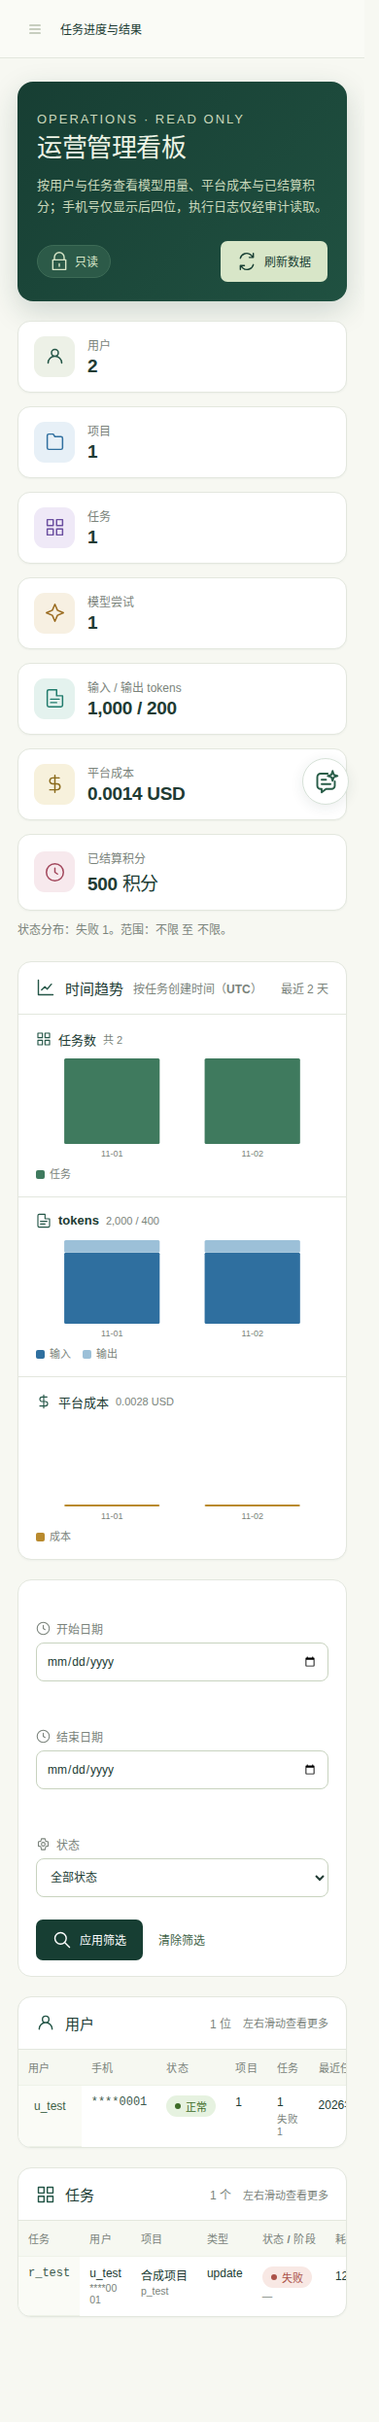
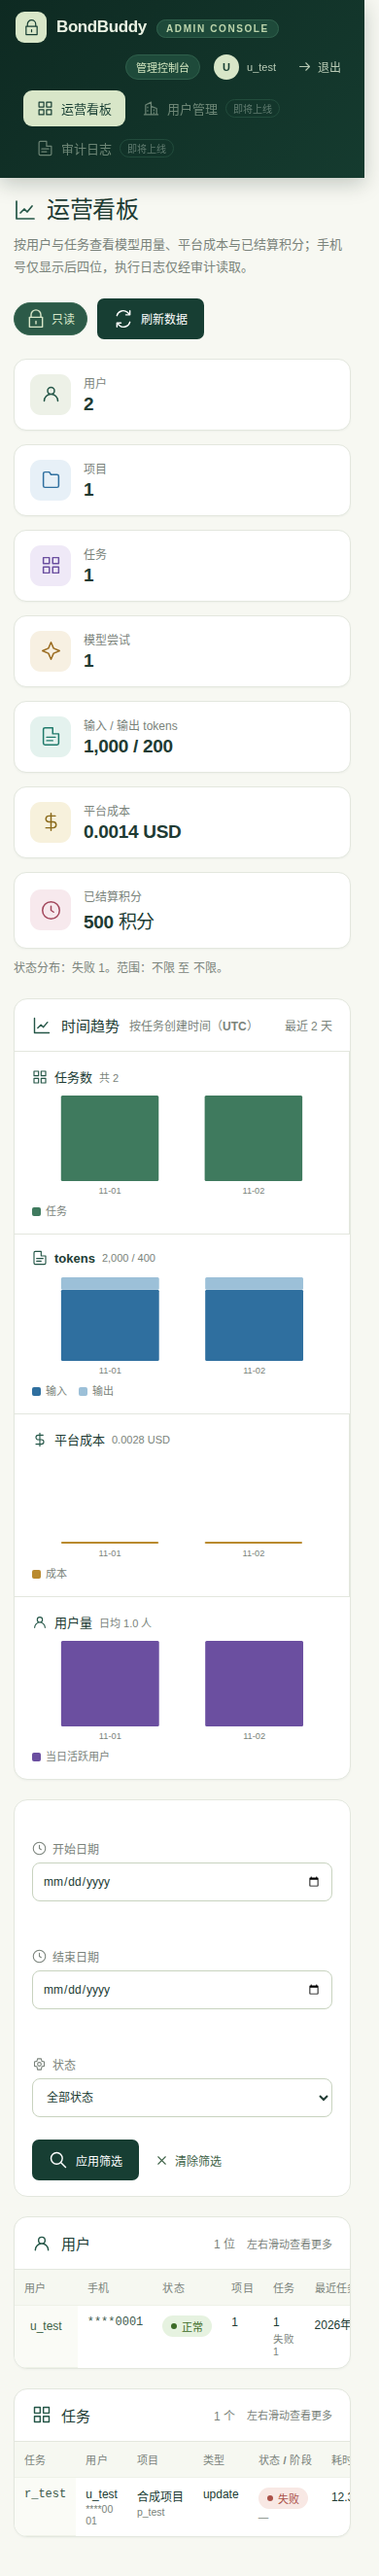
feat(#448): standalone admin console for the operator dashboard with daily active users

diff --git a/apps/web/src/admin-dashboard-page.ts b/apps/web/src/admin-dashboard-page.ts
@@ -47,7 +47,9 @@ const ICONS = {
   close: prototypeIcon('close'),
   lock: prototypeIcon('lock'),
   empty: prototypeIcon('folder'),
-  chart: icon('M3 3v18h18M7 15l4-4 3 3 5-6')
+  chart: icon('M3 3v18h18M7 15l4-4 3 3 5-6'),
+  link: prototypeIcon('link'),
+  more: prototypeIcon('down')
 };
 const STATE_TONE: Record<string, string> = {
   succeeded: 'success', test_completed: 'success', failed: 'danger', rejected: 'danger',
@@ -149,6 +151,8 @@ export function dashboardTrendHtml(overview: AdminDashboardOverview): string {
   const costText = priced.length ? dashboardCost(costTotal.toFixed(10), currency) : '—';
   const short = (value: string) => (value.length >= 10 ? value.slice(5) : value);
   const tasks = barSvg(daily.map(d => ({ value: d.tasks, label: short(d.date), text: `${d.date} 任务 ${d.tasks}` })), 'admin-dashboard-bar');
+  const users = barSvg(daily.map(d => ({ value: d.active_users, label: short(d.date), text: `${d.date} 活跃用户 ${d.active_users}` })), 'admin-dashboard-bar users');
+  const avgUsers = (daily.reduce((sum, d) => sum + d.active_users, 0) / daily.length).toFixed(1);
   const tokens = tokenSvg(daily.map(d => ({ in: d.input_tokens, out: d.output_tokens, label: short(d.date), text: `${d.date} ${d.input_tokens + d.output_tokens}` })));
   const costs = barSvg(daily.map(d => ({ value: d.cost_amount === null ? 0 : Number(d.cost_amount), label: short(d.date), text: `${d.date} 成本 ${d.cost_amount === null ? '未定价' : dashboardCost(d.cost_amount, d.currency)}` })), 'admin-dashboard-bar cost');
   return `<section class="admin-dashboard-panel admin-dashboard-trend" aria-label="时间趋势">
@@ -157,6 +161,7 @@ export function dashboardTrendHtml(overview: AdminDashboardOverview): string {
       <div class="admin-dashboard-chart"><h3>${ICONS.tasks}任务数 <small>共 ${number(tasksTotal)}</small></h3>${tasks}<div class="admin-dashboard-legend"><span><i style="background:#3f7a5e"></i>任务</span></div></div>
       <div class="admin-dashboard-chart"><h3>${ICONS.tokens}tokens <small>${number(inputTotal)} / ${number(outputTotal)}</small></h3>${tokens}<div class="admin-dashboard-legend"><span><i style="background:#2f6f9f"></i>输入</span><span><i style="background:#9cc0d8"></i>输出</span></div></div>
       <div class="admin-dashboard-chart"><h3>${ICONS.cost}平台成本 <small>${esc(costText)}</small></h3>${costs}<div class="admin-dashboard-legend"><span><i style="background:#b98a2e"></i>成本</span></div></div>
+      <div class="admin-dashboard-chart"><h3>${ICONS.users}用户量 <small>日均 ${avgUsers} 人</small></h3>${users}<div class="admin-dashboard-legend"><span><i style="background:#6b4fa0"></i>当日活跃用户</span></div></div>
     </div>
   </section>`;
 }
@@ -209,7 +214,7 @@ export function dashboardExecLogHtml(log: AdminExecLog | null, error: string): s
   if (!log) return '';
   return `<section class="admin-dashboard-exec-log" aria-label="执行日志" data-dashboard-exec-log-panel>
     <header><h2>${ICONS.log}执行日志 ${esc(log.attempt_id)}</h2>
-      <div class="admin-dashboard-exec-meta"><span>${number(log.byte_size)} 字节${log.truncated ? '（超出上限，已截断）' : ''}</span><span class="admin-dashboard-mono">sha256 ${esc(log.sha256)}</span></div>
+      <div class="admin-dashboard-exec-meta"><span>${ICONS.log}${number(log.byte_size)} 字节${log.truncated ? '（超出上限，已截断）' : ''}</span><span class="admin-dashboard-mono">${ICONS.link}sha256 ${esc(log.sha256)}</span></div>
       <div class="admin-dashboard-exec-actions"><button type="button" class="admin-dashboard-link" data-dashboard-exec-log-download>${ICONS.download}下载 .log</button>
       <button type="button" class="admin-dashboard-link" data-dashboard-exec-log-close>${ICONS.close}关闭</button></div></header>
     <pre data-dashboard-exec-log-body>${esc(log.body)}</pre>
@@ -232,7 +237,7 @@ function filtersHtml(filters: DashboardFilters): string {
       <label class="admin-dashboard-field"><span>${ICONS.clock}结束日期</span><input type="date" data-dashboard-to value="${esc(filters.to)}"></label>
       <label class="admin-dashboard-field"><span>${ICONS.settings}状态</span><select data-dashboard-state><option value="">全部状态</option>${options}</select></label>
       <div class="admin-dashboard-filter-actions"><button type="submit" class="btn primary" data-dashboard-apply>${ICONS.search}应用筛选</button>
-      <button type="button" class="admin-dashboard-link" data-dashboard-reset>清除筛选</button></div>
+      <button type="button" class="admin-dashboard-link" data-dashboard-reset>${ICONS.close}清除筛选</button></div>
     </div>
   </form>${filters.userId ? `<p class="admin-dashboard-user-filter" role="status">仅显示用户 ${esc(filters.userId)} 的任务 <button type="button" class="admin-dashboard-link" data-dashboard-clear-user>${ICONS.close}清除用户筛选</button></p>` : ''}`;
 }
@@ -345,12 +350,12 @@ export class AdminDashboardPage {
     if (!this.live()) return;
     if (this.forbidden) { this.shell(dashboardForbiddenHtml(), 'projects'); return; }
     this.shell(`<section class="admin-dashboard">
-      <header class="admin-dashboard-hero">
-        <div><p class="admin-dashboard-eyebrow">OPERATIONS · READ ONLY</p><h1>运营管理看板</h1>
+      <div class="admin-dashboard-page-title">
+        <div><h1>${ICONS.chart}运营看板</h1>
         <p>按用户与任务查看模型用量、平台成本与已结算积分；手机号仅显示后四位，执行日志仅经审计读取。</p></div>
-        <div class="admin-dashboard-hero-actions"><span class="admin-dashboard-pill">${ICONS.lock}只读</span>
+        <div class="admin-dashboard-page-actions"><span class="admin-dashboard-pill">${ICONS.lock}只读</span>
         <button type="button" class="btn primary" data-dashboard-refresh ${this.loading ? 'disabled' : ''}>${ICONS.refresh}刷新数据</button></div>
-      </header>
+      </div>
       ${this.error ? `<p class="admin-dashboard-alert" role="alert">${esc(this.error)}</p>` : ''}
       ${this.overview ? dashboardSummaryHtml(this.overview) : this.loading ? '<p role="status">正在读取运营汇总…</p>' : ''}
       ${this.overview ? dashboardTrendHtml(this.overview) : ''}
@@ -358,12 +363,12 @@ export class AdminDashboardPage {
       <section class="admin-dashboard-panel" aria-label="用户明细">
         <div class="admin-dashboard-panel-head"><div class="admin-dashboard-panel-title">${ICONS.users}用户</div><div class="admin-dashboard-panel-tools"><span class="admin-dashboard-panel-sub">${this.users.length} 位</span><span class="admin-dashboard-scroll-hint">左右滑动查看更多</span></div></div>
         ${this.loading && !this.users.length ? '<p role="status">正在读取用户明细…</p>' : dashboardUsersHtml(this.users, this.filters.userId || null)}
-        ${this.usersCursor ? `<div class="admin-dashboard-more"><button type="button" class="admin-dashboard-link" data-dashboard-more-users ${this.loading ? 'disabled' : ''}>加载更多用户</button></div>` : ''}
+        ${this.usersCursor ? `<div class="admin-dashboard-more"><button type="button" class="admin-dashboard-link" data-dashboard-more-users ${this.loading ? 'disabled' : ''}>${ICONS.more}加载更多用户</button></div>` : ''}
       </section>
       <section class="admin-dashboard-panel" aria-label="任务明细">
         <div class="admin-dashboard-panel-head"><div class="admin-dashboard-panel-title">${ICONS.tasks}任务</div><div class="admin-dashboard-panel-tools"><span class="admin-dashboard-panel-sub">${this.tasks.length} 个</span><span class="admin-dashboard-scroll-hint">左右滑动查看更多</span></div></div>
         ${this.loading && !this.tasks.length ? '<p role="status">正在读取任务明细…</p>' : dashboardTasksHtml(this.tasks)}
-        ${this.tasksCursor ? `<div class="admin-dashboard-more"><button type="button" class="admin-dashboard-link" data-dashboard-more-tasks ${this.loading ? 'disabled' : ''}>加载更多任务</button></div>` : ''}
+        ${this.tasksCursor ? `<div class="admin-dashboard-more"><button type="button" class="admin-dashboard-link" data-dashboard-more-tasks ${this.loading ? 'disabled' : ''}>${ICONS.more}加载更多任务</button></div>` : ''}
       </section>
       ${this.execLogLoading ? '<p role="status">正在读取执行日志…</p>' : ''}
       ${dashboardExecLogHtml(this.execLog, this.execLogError)}

diff --git a/apps/web/src/admin-dashboard.css b/apps/web/src/admin-dashboard.css
@@ -38,7 +38,7 @@
 .admin-dashboard-panel-tools{display:flex;align-items:center;gap:12px}
 .admin-dashboard-scroll-hint{display:none;color:var(--muted);font-size:11px}
 
-.admin-dashboard-charts{display:grid;grid-template-columns:repeat(3,minmax(0,1fr));gap:0}
+.admin-dashboard-charts{display:grid;grid-template-columns:repeat(4,minmax(0,1fr));gap:0}
 .admin-dashboard-chart{padding:16px 18px;border-right:1px solid var(--line);min-width:0}
 .admin-dashboard-chart:last-child{border-right:0}
 .admin-dashboard-chart h3{margin:0 0 4px;font-size:13px;display:flex;align-items:center;gap:7px}
@@ -47,6 +47,7 @@
 .admin-dashboard-chart-svg{width:100%;height:110px;display:block;stroke:none}
 .admin-dashboard-bar{fill:#3f7a5e}
 .admin-dashboard-bar.cost{fill:#b98a2e}
+.admin-dashboard-bar.users{fill:#6b4fa0}
 .admin-dashboard-bar.token-in{fill:#2f6f9f}
 .admin-dashboard-bar.token-out{fill:#9cc0d8}
 .admin-dashboard-axis{fill:var(--muted);font-size:9px}
@@ -92,7 +93,8 @@
 .admin-dashboard-exec-log header h2{display:flex;align-items:center;gap:8px;font-size:13px;color:#e6f0e6}
 .admin-dashboard-exec-log header h2 svg{width:16px;height:16px}
 .admin-dashboard-exec-meta{display:flex;gap:8px;flex-wrap:wrap;color:#9db3a6;font-size:11px}
-.admin-dashboard-exec-meta span{background:#1e2f27;border:1px solid #2c4438;border-radius:999px;padding:3px 9px}
+.admin-dashboard-exec-meta span{background:#1e2f27;border:1px solid #2c4438;border-radius:999px;padding:3px 9px;display:inline-flex;align-items:center;gap:5px}
+.admin-dashboard-exec-meta svg{width:12px;height:12px}
 .admin-dashboard-exec-actions{margin-left:auto;display:flex;gap:8px}
 .admin-dashboard-exec-actions .admin-dashboard-link{color:#cfe0d2}
 .admin-dashboard-exec-actions .admin-dashboard-link:hover{background:#24352e;color:#fff}
@@ -109,6 +111,36 @@
 
 .admin-dashboard-alert{margin:14px 0 0;padding:10px 12px;border-radius:9px;background:#f9ebe6;color:var(--red);font-size:12px}
 
-@media(max-width:1100px){.admin-dashboard-charts{grid-template-columns:1fr}.admin-dashboard-chart{border-right:0;border-bottom:1px solid var(--line)}.admin-dashboard-chart:last-child{border-bottom:0}}
+@media(max-width:1200px){.admin-dashboard-charts{grid-template-columns:repeat(2,minmax(0,1fr))}.admin-dashboard-chart:nth-child(2){border-right:0}.admin-dashboard-chart:nth-child(odd){border-right:1px solid var(--line)}}
+@media(max-width:760px){.admin-dashboard-charts{grid-template-columns:1fr}.admin-dashboard-chart{border-right:0;border-bottom:1px solid var(--line)}.admin-dashboard-chart:last-child{border-bottom:0}}
 @media(max-width:900px){.admin-dashboard-hero{flex-direction:column}.admin-dashboard-hero-actions{width:100%;justify-content:space-between}}
 @media(max-width:600px){.admin-dashboard-hero{padding:20px}.admin-dashboard-summary{grid-template-columns:1fr}.admin-dashboard-scroll-hint{display:inline}.admin-dashboard-exec-actions{margin-left:0}}
+
+
+/* Standalone administrator console shell (only used by #/admin/dashboard). */
+.admin-dashboard-page-title{display:flex;align-items:flex-end;justify-content:space-between;gap:20px;margin-bottom:18px;flex-wrap:wrap}
+.admin-dashboard-page-title h1{display:flex;align-items:center;gap:10px;font-size:24px;letter-spacing:-.5px;margin:0}
+.admin-dashboard-page-title h1 svg{width:24px;height:24px;color:var(--green)}
+.admin-dashboard-page-title p{margin:6px 0 0;color:var(--muted);font-size:13px}
+.admin-dashboard-page-actions{display:flex;gap:10px;align-items:center}
+.admin-app{min-height:100vh;background:var(--paper)}
+.admin-topbar{position:sticky;top:0;z-index:30;min-height:64px;background:linear-gradient(135deg,#0e2a22,#153b2f);color:#e9f1e2;display:flex;align-items:center;gap:24px;padding:0 28px;box-shadow:0 6px 20px rgba(10,30,24,.22)}
+.admin-brand{display:flex;align-items:center;gap:10px;font-weight:700;font-size:17px;letter-spacing:-.4px}
+.admin-mark{width:32px;height:32px;border-radius:9px;background:#d8e6c8;color:#173e33;display:grid;place-items:center}
+.admin-mark svg{width:17px;height:17px}
+.admin-tag{font-size:10px;letter-spacing:1.6px;background:#1e4a3a;border:1px solid #2f5f4b;color:#bcd4ab;border-radius:999px;padding:3px 9px;margin-left:6px}
+.admin-tabs{display:flex;gap:4px;margin-left:8px;flex-wrap:wrap}
+.admin-tab{display:flex;align-items:center;gap:8px;padding:9px 14px;border-radius:9px;color:#b7c9b4;font-size:13px}
+.admin-tab svg{width:17px;height:17px}
+.admin-tab[data-active="true"]{background:#d8e6c8;color:#173e33;font-weight:600}
+.admin-tab.disabled{opacity:.55;cursor:not-allowed}
+.admin-tab small{font-size:10px;border:1px solid #2f5f4b;border-radius:999px;padding:1px 7px;color:#9db3a6}
+.admin-top-right{margin-left:auto;display:flex;align-items:center;gap:14px;font-size:12px;color:#b7c9b4}
+.admin-env{display:inline-flex;align-items:center;gap:6px;background:#1e4a3a;border:1px solid #2f5f4b;color:#cfe3bd;border-radius:999px;padding:4px 10px}
+.admin-operator{display:flex;align-items:center;gap:8px}
+.admin-avatar{width:26px;height:26px;border-radius:50%;background:#d8e6c8;color:#173e33;display:grid;place-items:center;font-size:11px;font-weight:700}
+.admin-text-button{display:inline-flex;align-items:center;gap:6px;border:0;background:none;color:#b7c9b4;font:inherit;font-size:12px;cursor:pointer;padding:6px 8px;border-radius:7px}
+.admin-text-button:hover{background:#1e4a3a;color:#fff}
+.admin-text-button svg{width:15px;height:15px}
+.admin-main{max-width:1480px;margin:0 auto;padding:26px 30px 56px}
+@media(max-width:900px){.admin-topbar{min-height:auto;flex-wrap:wrap;padding:12px 16px;gap:10px}.admin-tabs{order:3;width:100%;overflow-x:auto}.admin-top-right{font-size:11px}.admin-main{padding:16px 14px 40px}}

diff --git a/apps/web/src/main.ts b/apps/web/src/main.ts
@@ -356,6 +356,32 @@ function shell(content: string, section: string) {
   menu.addEventListener('click', () => { const open = document.querySelector('#sidebar')!.classList.toggle('mobile-open'); menu.setAttribute('aria-expanded', String(open)); menu.setAttribute('aria-label', open ? '关闭菜单' : '打开菜单'); });
 }
 
+function adminTab(route: string, ico: string, label: string, active: boolean) {
+  return `<a class="admin-tab" href="#${route}"${active ? ' aria-current="page" data-active="true"' : ''}>${prototypeIcon(ico)}<span>${label}</span></a>`;
+}
+
+/** Standalone administrator console shell: no product sidebar, no product assistant. */
+function adminShell(content: string, _section: string) {
+  const operator = identity || '当前账号';
+  root.innerHTML = `<div class="admin-app">
+    <header class="admin-topbar">
+      <a class="admin-brand" href="#admin/dashboard"><span class="admin-mark">${prototypeIcon('lock')}</span><span>BondBuddy <span class="admin-tag">ADMIN CONSOLE</span></span></a>
+      <nav class="admin-tabs" aria-label="管理导航">
+        ${adminTab('admin/dashboard','grid','运营看板',true)}
+        <span class="admin-tab disabled" title="用户管理即将上线">${prototypeIcon('building')}<span>用户管理</span><small>即将上线</small></span>
+        <span class="admin-tab disabled" title="审计日志即将上线">${prototypeIcon('file')}<span>审计日志</span><small>即将上线</small></span>
+      </nav>
+      <div class="admin-top-right">
+        <span class="admin-env">管理控制台</span>
+        <span class="admin-operator"><span class="admin-avatar">${esc(operator.slice(0,1).toUpperCase())}</span>${esc(operator)}</span>
+        <button id="admin-logout" class="admin-text-button" type="button">${prototypeIcon('arrow')}退出</button>
+      </div>
+    </header>
+    <div id="admin-main" class="admin-main">${content}</div>
+  </div>`;
+  document.querySelector('#admin-logout')?.addEventListener('click', () => { void logout(); });
+}
+
 function showError(error: unknown, operation:'save'|'action'='action') {
   const target = document.querySelector<HTMLElement>('#page-error');
   if (target) { target.textContent = friendlyError(error,operation); target.hidden = false; }
@@ -449,7 +475,7 @@ async function renderRoute() {
   if (/^review(\?|$)/.test(requested)) { const query=new URLSearchParams(requested.split('?')[1]??''); if(query.has('new'))renderNewReview(api,shell,()=>token===epoch,query);else{reviewEntry=new ReviewEntry(api,shell,()=>token===epoch);await reviewEntry.render(query.get('project')??undefined);}return; }
   if(requested==='/billing/prices'){billingPriceAdmin=new BillingPriceAdminPage(api,shell,()=>token===epoch,identity);await billingPriceAdmin.render();return;}
   if(requested==='/billing/task-refunds'){taskRefundAdmin=new TaskRefundAdminPage(api,shell,()=>token===epoch,identity);await taskRefundAdmin.render();return;}
-  if(requested==='/admin/dashboard'){adminDashboard=new AdminDashboardPage(api,shell,()=>token===epoch);await adminDashboard.render();return;}
+  if(requested==='/admin/dashboard'){adminDashboard=new AdminDashboardPage(api,adminShell,()=>token===epoch);await adminDashboard.render();return;}
   if(requested==='/account'||requested.startsWith('/account?')||requested==='billing'||requested.startsWith('billing?')||requested.startsWith('payment/')||requested==='/data-policy'){
     const query=new URLSearchParams(requested.split('?')[1]??'');
     const project=query.get('project')??undefined;

diff --git a/apps/api/src/admin-dashboard.ts b/apps/api/src/admin-dashboard.ts
@@ -184,6 +184,7 @@ export async function adminDashboardOverview(pool: Pool, actorId: string, filter
         AND ($4::text IS NULL OR r.owner_user_id=$4)`, filterArgs(filter));
     const dailyUsage = await client.query(`SELECT to_char(date_trunc('day', r.created_at),'YYYY-MM-DD') AS date,
         count(DISTINCT r.id)::int AS tasks,
+        count(DISTINCT r.owner_user_id)::int AS active_users,
         COALESCE(sum(l.input_tokens),0)::text AS input_tokens,
         COALESCE(sum(l.output_tokens),0)::text AS output_tokens,
         sum(l.cost_amount)::text AS cost_amount,
@@ -209,6 +210,7 @@ export async function adminDashboardOverview(pool: Pool, actorId: string, filter
     const daily = dailyUsage.rows.map(row => ({
       date: row.date as string,
       tasks: integer(row.tasks),
+      active_users: integer(row.active_users),
       input_tokens: integer(row.input_tokens),
       output_tokens: integer(row.output_tokens),
       cost_amount: dashboardCostText(row.cost_amount),

diff --git a/packages/contracts/src/admin-dashboard.ts b/packages/contracts/src/admin-dashboard.ts
@@ -23,7 +23,7 @@ const taskKind = Type.String({minLength: 1, maxLength: 64, pattern: '^[a-z][a-z0
 const pricingStatus = Type.Union(['priced', 'rate_missing', 'unknown'].map(value => Type.Literal(value)));
 const errorCode = Type.String({pattern: '^[A-Z][A-Z0-9_]{0,63}$'});
 const stateCount = obj({state: runState, count});
-const dailyPoint = obj({date: Type.String({pattern: '^\\d{4}-\\d{2}-\\d{2}$'}),tasks: count,input_tokens: count,output_tokens: count,cost_amount: nullable(cost),currency: nullable(currency),credit_settled_points: Int64Schema});
+const dailyPoint = obj({date: Type.String({pattern: '^\\d{4}-\\d{2}-\\d{2}$'}),tasks: count,active_users: count,input_tokens: count,output_tokens: count,cost_amount: nullable(cost),currency: nullable(currency),credit_settled_points: Int64Schema});
 
 const range = obj({from: nullable(utc), to: nullable(utc)});
 

diff --git a/apps/web/tests/admin-dashboard.spec.ts b/apps/web/tests/admin-dashboard.spec.ts
@@ -28,8 +28,8 @@ const overview: AdminDashboardOverview = {
   currency: 'USD',
   credit_settled_points: '500',
   daily: [
-    { date: '2026-11-01', tasks: 1, input_tokens: 1000, output_tokens: 200, cost_amount: '0.0014000000', currency: 'USD', credit_settled_points: '500' },
-    { date: '2026-11-02', tasks: 1, input_tokens: 1000, output_tokens: 200, cost_amount: '0.0014000000', currency: 'USD', credit_settled_points: '0' }
+    { date: '2026-11-01', tasks: 1, active_users: 1, input_tokens: 1000, output_tokens: 200, cost_amount: '0.0014000000', currency: 'USD', credit_settled_points: '500' },
+    { date: '2026-11-02', tasks: 1, active_users: 1, input_tokens: 1000, output_tokens: 200, cost_amount: '0.0014000000', currency: 'USD', credit_settled_points: '0' }
   ]
 };
 

diff --git a/docs/acceptance/admin-dashboard-20261104/README.md b/docs/acceptance/admin-dashboard-20261104/README.md
@@ -102,3 +102,12 @@ BB_UX_EVIDENCE_DIR="$PWD/ux-evidence/admin-dashboard-20261104" \
 - **筛选卡**：日期/状态字段带图标；**执行日志面板**：深色代码区 + 字节/截断/sha 信息 chips + 下载/关闭。
 - **移动端**：卡片与图表单列、表格横向滚动。
 - 上述截图为升级后的 **synthetic 数据**真实渲染；E2E 4/4、web 单测 971/0 均通过。
+
+
+## 9. 独立管理员控制台（2026-11-04）
+
+- 看板不再嵌入产品侧边栏：新增**独立 admin 外壳**（`adminShell`），仅用于 `#/admin/dashboard`。顶部为 `BondBuddy · ADMIN CONSOLE`、管理导航（运营看板 / 用户管理 / 审计日志，后两项占位"即将上线"）、管理控制台徽章、操作员与退出；产品导航与其他产品页面不受影响。
+- **时间趋势新增第 4 图「用户量」**：当日活跃用户（当天有任务的去重用户数），契约 daily 增加 `active_users`。
+- **图标补充**：页面标题、退出、清除筛选、加载更多、执行日志元信息（大小/截断/sha）、图表标题、KPI 卡、筛选字段等。
+- 4 图自适应：≥1200px 4 列、900–1200px 2 列、≤760px 单列。
+- 验证：E2E 4/4、web 单测 971/0、build/contracts/domain 通过；截图见本文上方（已替换为独立控制台版本）。
